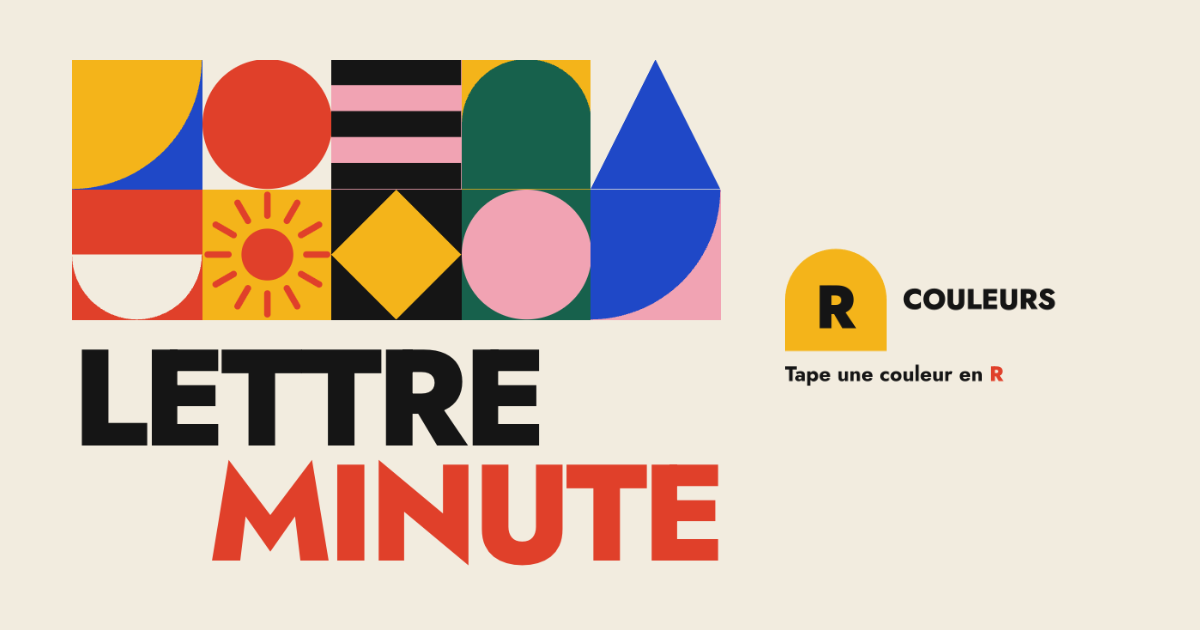
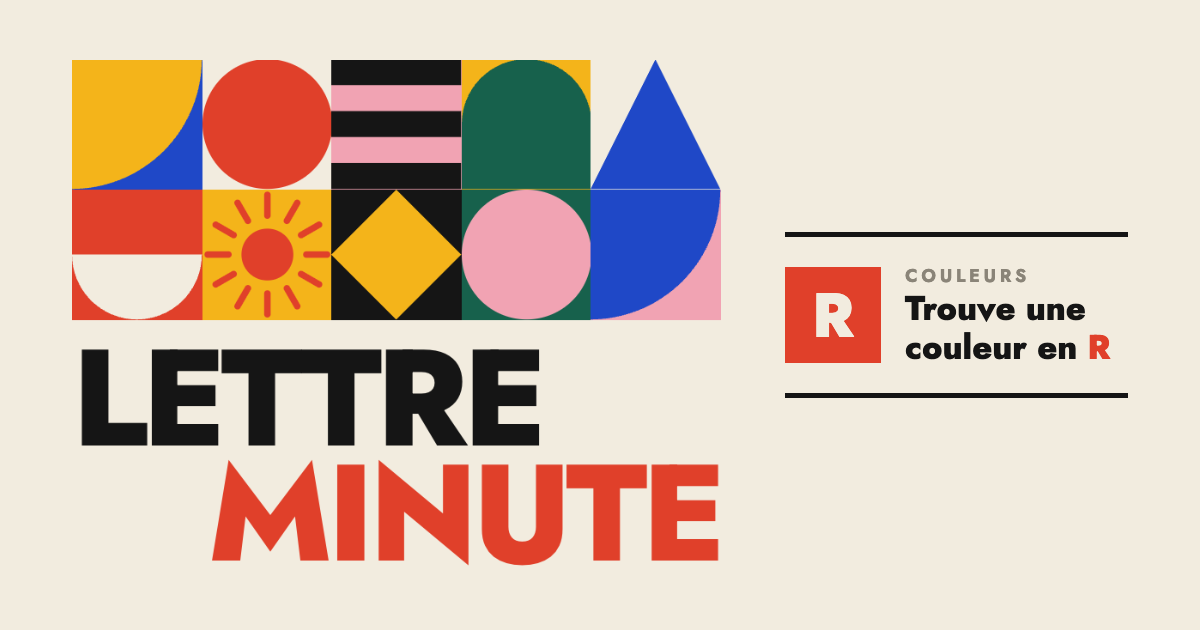
The invitation mail and the chat card ask « Trouve une couleur en R » under the red R tile again, as the invitation page does, keeping the game's own poster and title above it, the poster now as wide as the mail (no migration)

Changed region(s): [[0.6475, 0.3619, 0.9558, 0.6333]]

diff --git a/supabase/functions/invite/mail.ts b/supabase/functions/invite/mail.ts
@@ -32,6 +32,8 @@ interface MailText {
   /** Around the inviter's name, set in red. */
   lead: readonly [string, string]
   category: string
+  /** Around the letter, set in red: the game's own way of asking. */
+  find: readonly [string, string]
   cta: string
   /** Around the invited address, set in bold. */
   account: readonly [string, string]
@@ -44,6 +46,7 @@ const TEXTS: Record<string, MailText> = {
     subject: (inviter) => `${inviter} t’invite à jouer à Lettre Minute`,
     lead: ['', ' t’invite à jouer.'],
     category: 'Couleurs',
+    find: ['Trouve une couleur en ', ''],
     cta: 'Accepter l’invitation',
     account: ['Crée ton compte avec ', ' : vous serez amis tout de suite.'],
     footer: 'Un joueur a saisi ton adresse dans Lettre Minute. Tu ne recevras pas d’autre mail.',
@@ -53,6 +56,7 @@ const TEXTS: Record<string, MailText> = {
     subject: (inviter) => `${inviter} invites you to play Letter Minute`,
     lead: ['', ' invites you to play.'],
     category: 'Colours',
+    find: ['Find a colour starting with ', ''],
     cta: 'Accept the invitation',
     account: ['Create your account with ', ' and you will be friends straight away.'],
     footer: 'A player entered your address in Letter Minute. You will not get another e-mail.',
@@ -62,6 +66,7 @@ const TEXTS: Record<string, MailText> = {
     subject: (inviter) => `${inviter} lädt dich zu Letter Minute ein`,
     lead: ['', ' lädt dich zum Spielen ein.'],
     category: 'Farben',
+    find: ['Finde eine Farbe mit ', ''],
     cta: 'Einladung annehmen',
     account: ['Erstelle dein Konto mit ', ', dann seid ihr sofort befreundet.'],
     footer: 'Jemand hat deine Adresse in Letter Minute eingegeben. Du bekommst keine weitere E-Mail.',
@@ -71,6 +76,7 @@ const TEXTS: Record<string, MailText> = {
     subject: (inviter) => `${inviter} te invita a jugar a Letra Minuto`,
     lead: ['', ' te invita a jugar.'],
     category: 'Colores',
+    find: ['Encuentra un color con ', ''],
     cta: 'Aceptar la invitación',
     account: ['Crea tu cuenta con ', ' y seréis amigos al instante.'],
     footer: 'Un jugador escribió tu dirección en Letra Minuto. No recibirás otro correo.',
@@ -80,6 +86,7 @@ const TEXTS: Record<string, MailText> = {
     subject: (inviter) => `${inviter} ti invita a giocare a Lettera Minuto`,
     lead: ['', ' ti invita a giocare.'],
     category: 'Colori',
+    find: ['Trova un colore con la ', ''],
     cta: 'Accetta l’invito',
     account: ['Crea il tuo account con ', ' e sarete subito amici.'],
     footer: 'Un giocatore ha inserito il tuo indirizzo in Lettera Minuto. Non riceverai altre e-mail.',
@@ -89,6 +96,7 @@ const TEXTS: Record<string, MailText> = {
     subject: (inviter) => `${inviter} nodigt je uit voor Letter Minuut`,
     lead: ['', ' nodigt je uit om te spelen.'],
     category: 'Kleuren',
+    find: ['Vind een kleur met een ', ''],
     cta: 'Uitnodiging aannemen',
     account: ['Maak je account aan met ', ', dan zijn jullie meteen vrienden.'],
     footer: 'Een speler heeft je adres in Letter Minuut ingevuld. Je krijgt geen andere e-mail.',
@@ -98,6 +106,7 @@ const TEXTS: Record<string, MailText> = {
     subject: (inviter) => `${inviter} convida você para jogar Letra Minuto`,
     lead: ['', ' convida você para jogar.'],
     category: 'Cores',
+    find: ['Encontra uma cor com ', ''],
     cta: 'Aceitar o convite',
     account: ['Crie sua conta com ', ' e vocês serão amigos na hora.'],
     footer: 'Um jogador digitou seu endereço no Letra Minuto. Você não receberá outro e-mail.',
@@ -117,7 +126,7 @@ export function inviteMail(lang: string | null, inviter: string, email: string, 
   const subject = t.subject(who)
   const link = invitePage(who, code)
   // The game's own pictures (npm run render:invite), in the mail's language.
-  const art = (name: 'header' | 'prompt') => `${WEB_URL}invite/${name}-${TEXTS[lang ?? ''] ? lang : 'fr'}.png`
+  const art = (name: 'header') => `${WEB_URL}invite/${name}-${TEXTS[lang ?? ''] ? lang : 'fr'}.png`
 
   const html = `<!doctype html>
 <html lang="${lang ?? 'fr'}">
@@ -127,13 +136,21 @@ export function inviteMail(lang: string | null, inviter: string, email: string, 
 <tr><td align="center" style="padding:40px 24px;">
   <table role="presentation" width="100%" cellpadding="0" cellspacing="0" style="max-width:420px;">
     <tr><td style="padding:0 0 28px 0;">
-      <img src="${art('header')}" width="378" alt="${escapeHtml(t.appName)}" style="display:block;width:100%;max-width:378px;height:auto;border:0;">
+      <img src="${art('header')}" width="420" alt="${escapeHtml(t.appName)}" style="display:block;width:100%;max-width:420px;height:auto;border:0;">
     </td></tr>
     <tr><td style="padding:0 0 24px 0;${type(28, 800, INK, 'line-height:33px;')}">
       ${escapeHtml(t.lead[0])}<span style="color:${RED};">${escapeHtml(who)}</span>${escapeHtml(t.lead[1])}
     </td></tr>
-    <tr><td style="padding:0 0 28px 0;">
-      <img src="${art('prompt')}" width="378" alt="${escapeHtml(t.category)}" style="display:block;width:100%;max-width:378px;height:auto;border:0;">
+    <tr><td style="padding:0 0 32px 0;">
+      <table role="presentation" width="100%" cellpadding="0" cellspacing="0" style="border-top:2px solid ${INK};border-bottom:2px solid ${INK};"><tr>
+        <td width="58" style="padding:14px 0;">
+          <div style="width:44px;height:44px;background:${RED};${type(28, 800, PAPER, 'line-height:44px;text-align:center;')}">R</div>
+        </td>
+        <td style="padding:14px 0;">
+          <div style="${type(10, 700, INK_FAINT, 'letter-spacing:2px;text-transform:uppercase;')}">${escapeHtml(t.category)}</div>
+          <div style="${type(17, 800, INK, 'padding-top:2px;')}">${escapeHtml(t.find[0])}<span style="color:${RED};">R</span>${escapeHtml(t.find[1])}</div>
+        </td>
+      </tr></table>
     </td></tr>
     <tr><td style="padding:0 0 20px 0;">
       <a href="${link}" style="display:block;background:${INK};padding:16px 18px;${type(13, 700, PAPER, 'letter-spacing:2px;text-transform:uppercase;text-decoration:none;text-align:center;')}">${escapeHtml(t.cta)}</a>

diff --git a/src/debug/DebugBoard.tsx b/src/debug/DebugBoard.tsx
@@ -18,7 +18,7 @@ import { LanguagePicker } from '../ui/LanguagePicker'
 import { ModeratorOffer } from '../ui/ModeratorOffer'
 import { OverScreen, type RunProposal } from '../ui/OverScreen'
 import { PlayerActionsContext, type PlayerActions } from '../ui/PlayerSheet'
-import { TutorialScreen, tutorialPrompt } from '../ui/TutorialScreen'
+import { TutorialScreen } from '../ui/TutorialScreen'
 import { UpdateNotice } from '../ui/UpdateNotice'
 import { PushOffer } from '../ui/PushOffer'
 import { OldChallengeList, StatsPage } from '../ui/StatsPage'
@@ -30,8 +30,7 @@ import { Menu } from '../ui/Menu'
 import type { SharedChallenge, SharedPlayer } from '../domain/rivalry'
 import type { Boards } from '../domain/boards'
 import { Avatar } from '../ui/Avatar'
-import { LetterMark, Shape } from '../ui/bauhaus'
-import { categoryMotif } from '../ui/motifs'
+import { Shape } from '../ui/bauhaus'
 import { NamePrompt } from '../ui/NamePrompt'
 import { InviterPrompt } from '../ui/InviterPrompt'
 import { DashboardView } from './Dashboard'
@@ -47,7 +46,7 @@ import { CategoriesPage } from '../ui/CategoriesPage'
 import { FeedbackPop } from '../ui/FeedbackPop'
 import { PlusPop } from '../ui/PlusPop'
 import { Checkout } from '../ui/Checkout'
-import { categoryText, useT } from '../i18n'
+import { useT } from '../i18n'
 import { IdeasAdminView } from './IdeasAdmin'
 import type { AdminIdea } from '../lib/cloud'
 
@@ -618,12 +617,11 @@ function FriendsScenario({ back, sheet }: { back(): void; sheet?: 'name' | 'invi
 /**
  * Ce que le mail d'invitation et la carte d'aperçu montrent du jeu, dans la
  * langue de l'interface : l'affiche de l'accueil — le quart de disque rendu à
- * la tuile du menu — et son titre, puis la consigne du tutoriel.
+ * la tuile du menu — et son titre.
  * `npm run render:invite` les photographie (scripts/render-invite-art.ts).
  */
 function InviteArtScenario({ back }: { back(): void }) {
   const t = useT()
-  const prompt = tutorialPrompt(t)
   return (
     <div className="sheet stack">
       <div data-art="header" className="stack">
@@ -640,19 +638,6 @@ function InviteArtScenario({ back }: { back(): void }) {
             <span>{t.appName[1]}</span>
           </h1>
         </header>
-      </div>
-      <div data-art="prompt" className="stack">
-        <section className="tutorial-prompt">
-          <div className="tutorial-piece tutorial-piece--letter">
-            <LetterMark letter={prompt.letter} motif={categoryMotif(prompt.categoryId)} size="lg" />
-          </div>
-          <div className="tutorial-piece tutorial-piece--theme">
-            <h2 className="prompt-label">{categoryText(t, prompt.categoryId).label}</h2>
-          </div>
-        </section>
-        <p className="tutorial-ask">
-          {t.tutorial.ask} <strong>{prompt.letter}</strong>
-        </p>
       </div>
       <button type="button" className="btn btn--quiet" onClick={back}>
         Retour
@@ -1622,7 +1607,7 @@ const SCENARIOS: readonly Scenario[] = [
     id: 'invite-art',
     group: 'Accueil',
     title: 'Images du mail d’invitation',
-    how: 'L’affiche, le titre et la consigne du tutoriel que npm run render:invite photographie pour le mail et la carte d’aperçu',
+    how: 'L’affiche et le titre que npm run render:invite photographie pour le mail et la carte d’aperçu',
     phase: 'home',
     render: (back) => <InviteArtScenario back={back} />,
   },

diff --git a/assets/source/invite-card.html b/assets/source/invite-card.html
@@ -1,19 +1,27 @@
 <!doctype html>
-<!-- The picture chat apps show under a shared invitation (public/invite-card.png, 1200 × 630), made of the
-     game's own pictures (npm run render:invite first):
+<!-- The picture chat apps show under a shared invitation (public/invite-card.png, 1200 × 630): the game's own
+     poster (npm run render:invite first) beside the prompt the mail and the page ask.
      "/Applications/Google Chrome.app/Contents/MacOS/Google Chrome" --headless=new --hide-scrollbars --window-size=1200,630 --allow-file-access-from-files --screenshot=public/invite-card.png "file://$PWD/assets/source/invite-card.html" -->
 <html lang="fr">
 <head>
 <meta charset="utf-8">
+<link rel="stylesheet" href="../../node_modules/@fontsource-variable/jost/index.css">
 <style>
   * { box-sizing: border-box; margin: 0; }
-  body { width: 1200px; height: 630px; background: #f2ecdf; padding: 60px 72px; display: grid; grid-template-columns: auto 1fr; align-items: center; gap: 64px; }
+  body { width: 1200px; height: 630px; background: #f2ecdf; color: #151515; font-family: 'Jost Variable', Futura, sans-serif; padding: 60px 72px; display: grid; grid-template-columns: auto 1fr; align-items: center; gap: 64px; }
   .header { height: 510px; display: block; }
-  .prompt { width: 100%; display: block; }
+  .round { display: grid; grid-template-columns: auto 1fr; align-items: center; gap: 24px; padding: 26px 0; border-block: 5px solid #151515; }
+  .letter { width: 96px; height: 96px; display: grid; place-items: center; background: #e0402a; color: #f2ecdf; font-size: 62px; font-weight: 800; }
+  .round small { display: block; font-size: 18px; font-weight: 700; letter-spacing: 0.2em; text-transform: uppercase; color: #8a8478; }
+  .round b { display: block; font-size: 34px; font-weight: 800; line-height: 1.15; }
+  .round em { font-style: normal; color: #e0402a; }
 </style>
 </head>
 <body>
   <img class="header" src="../../public/invite/header-fr.png" alt="">
-  <img class="prompt" src="../../public/invite/prompt-fr.png" alt="">
+  <div class="round">
+    <span class="letter">R</span>
+    <span><small>Couleurs</small><b>Trouve une couleur en <em>R</em></b></span>
+  </div>
 </body>
 </html>

diff --git a/scripts/render-invite-art.ts b/scripts/render-invite-art.ts
@@ -1,12 +1,12 @@
 /**
  * Photographs, in every language, what the invitation mail and the chat
  * preview show of the game: the debug board's « Images du mail
- * d’invitation » — the home poster and title, then the tutorial's prompt.
+ * d’invitation » — the home poster and its title.
  *
  *   npx vite --port 5299 --strictPort   (with VITE_SUPABASE_URL= so nothing is asked of a server)
  *   npm run render:invite [-- http://localhost:5299]
  *
- * Writes public/invite/header-<lang>.png and prompt-<lang>.png, twice the
+ * Writes public/invite/header-<lang>.png, twice the
  * size they are shown at, for the next `npm run web:publish`.
  */
 import { spawn } from 'node:child_process'
@@ -77,7 +77,7 @@ try {
     // paper, which would stop at the edge of the picture in a mail.
     await evaluate(`(() => { const s = document.createElement('style'); s.textContent = '*,*::before,*::after{animation:none!important;transition:none!important;background-image:none!important}'; document.head.append(s); return true })()`)
     await sleep(500)
-    for (const art of ['header', 'prompt']) {
+    for (const art of ['header']) {
       const box = await evaluate<{ x: number; y: number; width: number; height: number }>(
         `(() => { const r = document.querySelector('[data-art=${art}]').getBoundingClientRect(); return { x: r.x, y: r.y + scrollY, width: r.width, height: r.height } })()`,
       )
@@ -88,7 +88,7 @@ try {
       })
       writeFileSync(join(OUT, `${art}-${locale}.png`), Buffer.from(shot.data, 'base64'))
     }
-    console.log(`${locale} : ${OUT}/header-${locale}.png, ${OUT}/prompt-${locale}.png`)
+    console.log(`${locale} : ${OUT}/header-${locale}.png`)
   }
   socket.close()
 } finally {
